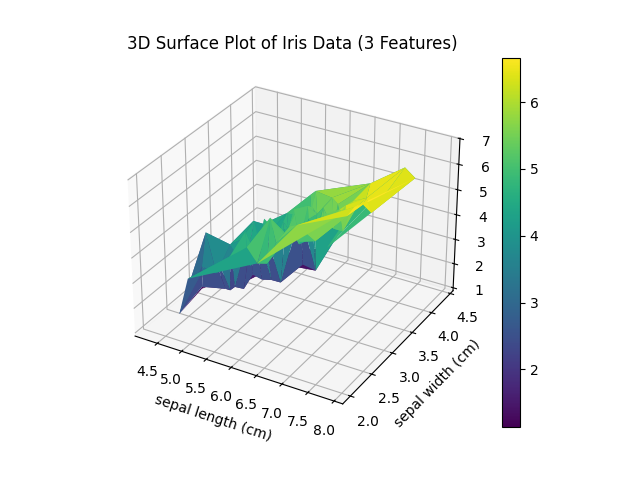
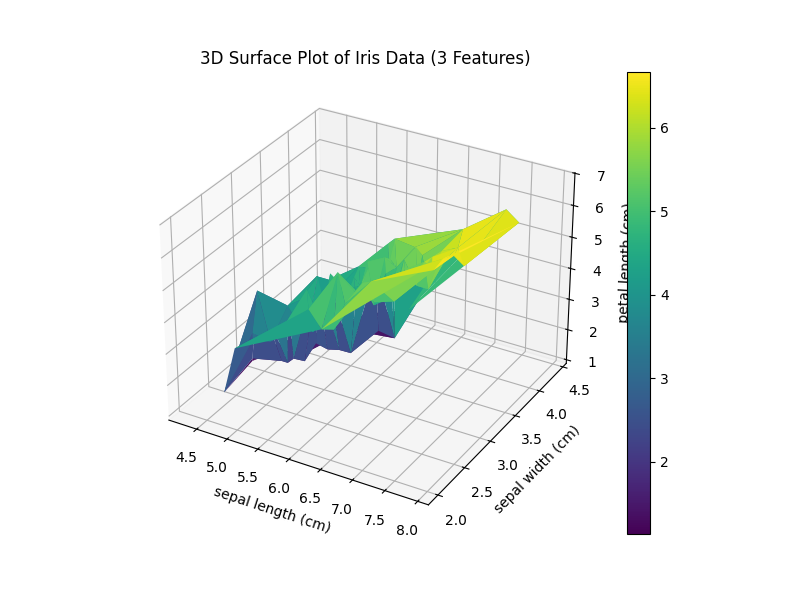
Refactor plots to use common skeleton and fix explanation text

diff --git a/3a.py b/3a.py
@@ -1,15 +1,19 @@
 import matplotlib.pyplot as plt
 from sklearn.datasets import load_iris
 
-# Load Iris dataset
+# Step 1: Load Data
 iris = load_iris()
 X = iris.data
 
-# Use 2 features for Contour plot (tricontourf) with 3rd feature as Z
-plt.figure()
+# Step 2: Setup Canvas
+plt.figure(figsize=(8, 6))
+
+# Step 3: THE PLOT SPECIFIC CODE GOES HERE
 cp = plt.tricontourf(X[:, 0], X[:, 1], X[:, 2], levels=14, cmap='viridis')
-plt.colorbar(cp)
+
+# Step 4: Add Labels & Show
 plt.title('Contour Plot of Iris Data (Sepal L vs Sepal W vs Petal L)')
 plt.xlabel(iris.feature_names[0])
 plt.ylabel(iris.feature_names[1])
+plt.colorbar(cp)
 plt.show()

diff --git a/2a.py b/2a.py
@@ -1,15 +1,18 @@
 import matplotlib.pyplot as plt
 from sklearn.datasets import load_iris
 
-# Load Iris dataset
+# Step 1: Load Data
 iris = load_iris()
 X = iris.data
 
-# Use 3 features for 3D surface (trisurf) plot
-fig = plt.figure()
+# Step 2: Setup Canvas
+fig = plt.figure(figsize=(8, 6))
 ax = fig.add_subplot(111, projection='3d')
+
+# Step 3: THE PLOT SPECIFIC CODE GOES HERE
 surf = ax.plot_trisurf(X[:, 0], X[:, 1], X[:, 2], cmap='viridis', edgecolor='none')
 
+# Step 4: Add Labels & Show
 plt.title('3D Surface Plot of Iris Data (3 Features)')
 ax.set_xlabel(iris.feature_names[0])
 ax.set_ylabel(iris.feature_names[1])

diff --git a/1a.py b/1a.py
@@ -1,15 +1,18 @@
 import matplotlib.pyplot as plt
 from sklearn.datasets import load_iris
 
+# Step 1: Load Data
 iris = load_iris()
 X = iris.data
 y = iris.target
 
+# Step 2: Setup Canvas
 plt.figure(figsize=(8, 6))
 
-# Scatter plot of the first two dimensions (Sepal Length vs Sepal Width)
+# Step 3: THE PLOT SPECIFIC CODE GOES HERE
 scatter = plt.scatter(X[:, 0], X[:, 1], c=y, cmap='viridis', s=50, alpha=0.8)
 
+# Step 4: Add Labels & Show
 plt.title('Scatter Plot of Iris Data (Sepal Length vs Sepal Width)')
 plt.xlabel(iris.feature_names[0])
 plt.ylabel(iris.feature_names[1])

diff --git a/5a.py b/5a.py
@@ -1,11 +1,18 @@
 import matplotlib.pyplot as plt
 from sklearn.datasets import load_iris
 
+# Step 1: Load Data
 iris = load_iris()
-data = [iris.data[:, i] for i in range(iris.data.shape[1])]
+X = iris.data
+data = [X[:, i] for i in range(X.shape[1])]
 
+# Step 2: Setup Canvas
 plt.figure(figsize=(8, 6))
+
+# Step 3: THE PLOT SPECIFIC CODE GOES HERE
 plt.boxplot(data, vert=True, patch_artist=True, tick_labels=iris.feature_names)
+
+# Step 4: Add Labels & Show
 plt.title('Box-plot of Iris Dataset Features')
 plt.ylabel('Centimeters')
 plt.show()

diff --git a/4a.py b/4a.py
@@ -3,11 +3,16 @@ import matplotlib.pyplot as plt
 import seaborn as sns
 from sklearn.datasets import load_iris
 
+# Step 1: Load Data
 iris = load_iris()
 df = pd.DataFrame(iris.data, columns=iris.feature_names)
 
+# Step 2: Setup Canvas
 plt.figure(figsize=(8, 6))
-# Correlation heatmap is a great way to visualize n-dimensional data
+
+# Step 3: THE PLOT SPECIFIC CODE GOES HERE
 sns.heatmap(df.corr(), annot=True, cmap='coolwarm', fmt='.2f')
+
+# Step 4: Add Labels & Show
 plt.title('Heat-map of Iris Data Correlation')
 plt.show()

diff --git a/explanation.md b/explanation.md
@@ -1,0 +1,182 @@
+# Machine Learning Lab Explanations
+
+## `1a.py`
+
+### Output
+*No output printed to console.*
+
+### Graph
+![1a.py](outputs/1a.png)
+
+## `1b.py`
+
+### Output
+```text
+Starting state: -0.5214
+Local maximum found at x = 1.9786
+Objective value: 3.9995
+```
+
+## `2a.py`
+
+### Output
+*No output printed to console.*
+
+### Graph
+![2a.py](outputs/2a.png)
+
+## `2b.py`
+
+### Output
+```text
+Goal Reached!
+Path traversed: ['S', 'A', 'D', 'G']
+```
+
+## `3a.py`
+
+### Output
+*No output printed to console.*
+
+### Graph
+![3a.py](outputs/3a.png)
+
+## `3b.py`
+
+### Output
+```text
+A* Path: ['S', 'A', 'C', 'G']
+Total Cost: 6
+```
+
+## `4a.py`
+
+### Output
+*No output printed to console.*
+
+### Graph
+![4a.py](outputs/4a.png)
+
+## `4b.py`
+
+### Output
+```text
+The optimal value is: 12
+```
+
+## `5a.py`
+
+### Output
+*No output printed to console.*
+
+### Graph
+![5a.py](outputs/5a.png)
+
+## `5b.py`
+
+### Output
+```text
+The optimal value is: 5
+```
+
+## `6.py`
+
+### Output
+```text
+Accuracy: 0.7674418604651163
+Classification Report:
+               precision    recall  f1-score   support
+
+           0       0.80      0.81      0.80       126
+           1       0.72      0.71      0.72        89
+
+    accuracy                           0.77       215
+   macro avg       0.76      0.76      0.76       215
+weighted avg       0.77      0.77      0.77       215
+```
+
+## `7.py`
+
+### Output
+```text
+Accuracy with Euclidean distance (k=3): 0.6462
+Accuracy with Manhattan distance (k=3): 0.6462
+```
+
+## `8.py`
+
+### Output
+*No output printed to console.*
+
+### Graph
+![8.py](outputs/8.png)
+
+## `8o.py`
+
+### Output
+```text
+Labels: [1 1 1 1 1 1 1 1 1 1 1 1 1 1 1 1 1 1 1 1 1 1 1 1 1 1 1 1 1 1 1 1 1 1 1 1 1
+ 1 1 1 1 1 1 1 1 1 1 1 1 1 0 0 2 0 0 0 0 0 0 0 0 0 0 0 0 0 0 0 0 0 0 0 0 0
+ 0 0 0 2 0 0 0 0 0 0 0 0 0 0 0 0 0 0 0 0 0 0 0 0 0 0 2 0 2 2 2 2 0 2 2 2 2
+ 2 2 0 0 2 2 2 2 0 2 0 2 0 2 2 0 0 2 2 2 2 2 0 2 2 2 2 0 2 2 2 0 2 2 2 0 2
+ 2 0]
+Centroids: [[5.9016129  2.7483871  4.39354839 1.43387097]
+ [5.006      3.428      1.462      0.246     ]
+ [6.85       3.07368421 5.74210526 2.07105263]]
+```
+
+### Graph
+![8o.py](outputs/8o.png)
+
+## `9.py`
+
+### Output
+```text
+Single Linkage Labels: [1 1 1 1 1 1 1 1 1 1]
+Complete Linkage Labels: [1 1 1 1 1 1 1 1 1 1]
+```
+
+### Graph
+![9.py](outputs/9.png)
+
+## `10.py`
+
+### Output
+*No output printed to console.*
+
+### Graph
+![10.py](outputs/10.png)
+
+## `11.py`
+
+### Output
+```text
+AND Function Predictions:
+[0 0] -> 0
+[0 1] -> 0
+[1 0] -> 0
+[1 1] -> 1
+
+-----------------------
+
+OR Function Predictions:
+[0 0] -> 0
+[0 1] -> 1
+[1 0] -> 1
+[1 1] -> 1
+```
+
+## `add_code_breakdowns.py`
+
+### Output
+```text
+Code breakdowns added to markdown files successfully.
+```
+
+## `update_mds.py`
+
+### Output
+```text
+Markdown files updated.
+```
+
